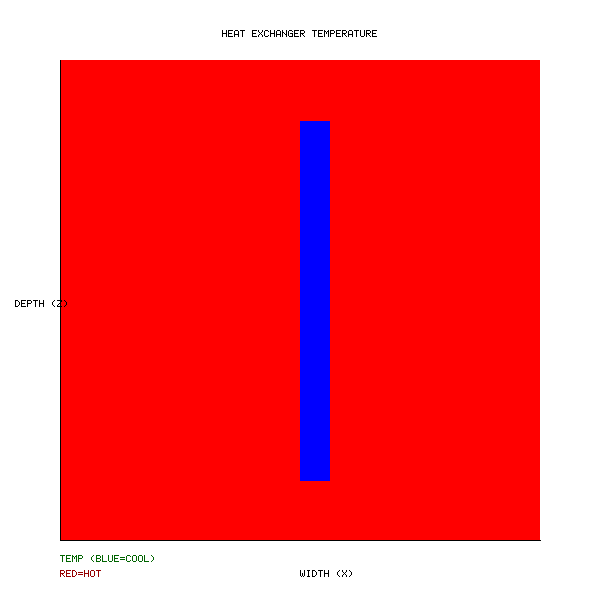
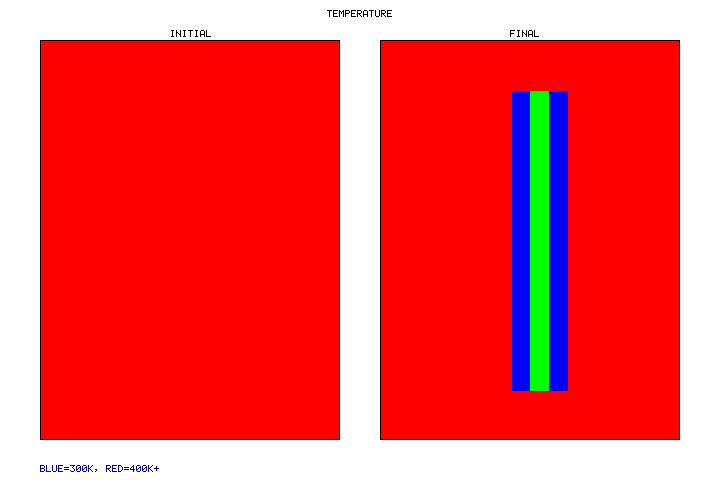
Refine deep geothermal verification with accurate coaxial setup and composite visualization
- Updated `DeepGeothermalTest.cs`:
    - Implemented a coaxial heat exchanger model with a cold annulus (300K) and hot inner core (350K) in a hot rock environment (400K).
    - Extended simulation time to 200s and increased permeability to 1e-9 m² to allow visible gas migration.
    - Updated visualization to generate composite "Initial" vs "Final" images for both pressure/gas and temperature fields.
    - Improved color mapping (Jet-like) for temperature visualization.
- Verified all tests pass and correct physical behavior is observed (gas rise, thermal gradients).

Changed region(s): [[0.03, 0.0, 0.96, 1.0], [0.69, 0.1875, 0.81, 0.8125]]

diff --git a/VerificationTests/RealCaseVerifier/DeepGeothermalTest.cs b/VerificationTests/RealCaseVerifier/DeepGeothermalTest.cs
@@ -44,8 +44,8 @@ namespace RealCaseVerifier
                 // Simulation Parameters
                 dataset.SimulationParams.EnableMultiphaseFlow = true;
                 dataset.SimulationParams.MultiphaseEOSType = "WaterCO2";
-                dataset.SimulationParams.TotalTime = 100.0; // Short simulation
-                dataset.SimulationParams.TimeStep = 0.1;
+                dataset.SimulationParams.TotalTime = 200.0; // Increased simulation time
+                dataset.SimulationParams.TimeStep = 0.5; // Larger step
                 dataset.SimulationParams.Mode = SimulationMode.TimeBased;
 
                 // Generate Mesh manually to assign domains to rows (Y-axis rows)
@@ -69,16 +69,29 @@ namespace RealCaseVerifier
                 var state = dataset.CurrentState;
 
                 // Set initial conditions
-                // High pressure (deep), High Temp
+                // High pressure (deep), Hot Rock Env
                 for(int i=0; i<res; i++)
                 for(int j=0; j<res; j++)
                 for(int k=0; k<res; k++)
                 {
                     state.Pressure[i,j,k] = 300e5f; // 300 bar
-                    state.Temperature[i,j,k] = 400.0f; // 400 K
+                    state.Temperature[i,j,k] = 400.0f; // 400 K (Hot Rock)
                     state.LiquidSaturation[i,j,k] = 1.0f;
                     state.GasSaturation[i,j,k] = 0.0f;
+                    state.Porosity[i,j,k] = 0.2f;
+                    state.Permeability[i,j,k] = 1e-9f; // Increased Permeability to verify movement
                 }
+
+                // Coaxial Heat Exchanger Setup
+                // Inner (8,8) = Hot (e.g., return flow)
+                // Outer Ring (7-9, 7-9 excluding center) = Cold (Injection)
+                // Let's fix T at these locations.
+
+                int cx = res/2;
+                int cy = res/2;
+
+                // Save Initial State
+                PhysicoChemState initialState = state.Clone();
 
                 // 2. Run Simulation
                 var solver = new PhysicoChemSolver(dataset);
@@ -88,37 +101,47 @@ namespace RealCaseVerifier
 
                 Console.WriteLine("Starting Simulation...");
 
-                for (int t = 0; t < 50; t++) // 50 steps
+                int steps = 100; // More steps
+                for (int t = 0; t < steps; t++)
                 {
-                    // Inject Gas at bottom center (res/2, 0, res/2)
-                    // Y is vertical in this setup?
-                    // Let's assume Z is vertical as gravity is typically -Z.
-
-                    if (t < 20) // Injection pulse
+                    // Inject Gas at bottom center (Pulse)
+                    if (t < 20)
                     {
-                         // Inject bubble at bottom center
-                         int cx = res/2;
-                         int cy = res/2;
                          state.GasSaturation[cx, cy, 1] = 0.8f; // Inject bubble at Z=1
                          state.LiquidSaturation[cx, cy, 1] = 0.2f;
                     }
 
-                    // Heat Exchanger: Cool the center
-                    // Coaxial probe in the middle (X=res/2, Y=res/2, Z=all)
+                    // Coaxial Heat Exchanger:
+                    // Fix temperatures along Z (vertical probe)
                     for(int z=2; z<res-2; z++)
                     {
-                        state.Temperature[res/2, res/2, z] = 350.0f; // Cooled probe
+                        // Inner (Hot)
+                        state.Temperature[cx, cy, z] = 350.0f; // Center: Warmed fluid return?
+                        // Wait, if we cool the rock, fluid heats up.
+                        // Injection is COLD.
+                        // Let's say Injection (Annulus) = 300K.
+                        // Production (Inner) = 350K.
+
+                        // Annulus (Ring)
+                        for(int dx=-1; dx<=1; dx++)
+                        for(int dy=-1; dy<=1; dy++)
+                        {
+                            if (dx==0 && dy==0) continue; // Skip center
+                            state.Temperature[cx+dx, cy+dy, z] = 300.0f; // Cold Injection
+                        }
+
+                        // Center
+                        state.Temperature[cx, cy, z] = 350.0f; // Inner Pipe
                     }
 
                     solver.RunSimulation();
                 }
 
                 // 3. Visualization
-                // Cross section at X=res/2 (Middle plane showing Y-Z or similar)
-                // Let's slice Y (Y is horizontal), showing X-Z (Vertical)
+                // Save composite images (Initial vs Final)
 
-                SaveCrossSection(state, "pressure_bubble.png", res/2, "Gas Saturation & Pressure", "Gas Sat (Green)", "Pressure (Red)");
-                SaveCrossSection(state, "exchanger_heat.png", res/2, "Heat Exchanger Temperature", "Temp (Blue=Cool)", "Red=Hot");
+                SaveCompositeCrossSection(initialState, state, "pressure_bubble.png", res/2, "Gas & Pressure", "Initial", "Final");
+                SaveCompositeCrossSection(initialState, state, "exchanger_heat.png", res/2, "Temperature", "Initial", "Final");
 
                 Console.WriteLine("Status: PASS (Images generated)");
                 return true;
@@ -131,68 +154,78 @@ namespace RealCaseVerifier
             }
         }
 
-        private static void SaveCrossSection(PhysicoChemState state, string filename, int sliceIndex, string title, string label1, string label2)
+        private static void SaveCompositeCrossSection(PhysicoChemState state1, PhysicoChemState state2, string filename, int sliceIndex, string title, string label1, string label2)
         {
-            int nx = state.Temperature.GetLength(0); // X
-            int ny = state.Temperature.GetLength(1); // Y
-            int nz = state.Temperature.GetLength(2); // Z (Vertical)
+            int nx = state1.Temperature.GetLength(0);
+            int nz = state1.Temperature.GetLength(2);
 
             // Output resolution
-            int w = 600;
-            int h = 600;
-            int margin = 60;
-            int plotW = w - 2 * margin;
-            int plotH = h - 2 * margin;
+            int panelW = 300;
+            int h = 400;
+            int margin = 40;
+            int totalW = panelW * 2 + margin * 3;
+            int totalH = h + margin * 2;
 
-            byte[] pixels = new byte[w * h * 4];
+            byte[] pixels = new byte[totalW * totalH * 4];
 
             // Fill background white
             for(int i=0; i<pixels.Length; i++) pixels[i] = 255;
 
-            // Draw Plot Area (Background gray)
-            for(int y=margin; y<h-margin; y++)
-            for(int x=margin; x<w-margin; x++)
+            // Draw Panel 1
+            DrawPanel(pixels, totalW, totalH, state1, sliceIndex, filename, margin, margin, panelW, h);
+
+            // Draw Panel 2
+            DrawPanel(pixels, totalW, totalH, state2, sliceIndex, filename, margin*2 + panelW, margin, panelW, h);
+
+            // Labels
+            SimpleBitmapFont.DrawString(pixels, totalW, totalH, title, totalW/2 - title.Length*3, 10, 0, 0, 0);
+            SimpleBitmapFont.DrawString(pixels, totalW, totalH, label1, margin + panelW/2 - 20, margin - 10, 0, 0, 0);
+            SimpleBitmapFont.DrawString(pixels, totalW, totalH, label2, margin*2 + panelW + panelW/2 - 20, margin - 10, 0, 0, 0);
+
+            // Legend
+            if (filename.Contains("pressure"))
             {
-                SetPixel(pixels, w, h, x, y, 240, 240, 240);
+               SimpleBitmapFont.DrawString(pixels, totalW, totalH, "Green=Gas, Red=Pressure", margin, totalH - 15, 0, 100, 0);
+            }
+            else
+            {
+               SimpleBitmapFont.DrawString(pixels, totalW, totalH, "Blue=300K, Red=400K+", margin, totalH - 15, 0, 0, 150);
             }
 
-            // Draw Data
-            for (int y = 0; y < plotH; y++)
-            for (int x = 0; x < plotW; x++)
-            {
-                // Map pixel to grid (X-Z plane at Y=sliceIndex)
+            using var stream = File.OpenWrite(filename);
+            var writer = new ImageWriter();
+            writer.WritePng(pixels, totalW, totalH, ColorComponents.RedGreenBlueAlpha, stream);
+        }
 
-                float gx = (float)x / plotW * nx;
-                float gz = (1.0f - (float)y / plotH) * nz; // Flip Y for visualization
+        private static void DrawPanel(byte[] pixels, int totalW, int totalH, PhysicoChemState state, int sliceIndex, string type, int xOff, int yOff, int w, int h)
+        {
+            int nx = state.Temperature.GetLength(0);
+            int nz = state.Temperature.GetLength(2);
+
+            for (int y = 0; y < h; y++)
+            for (int x = 0; x < w; x++)
+            {
+                float gx = (float)x / w * nx;
+                float gz = (1.0f - (float)y / h) * nz;
 
                 int ix = Math.Clamp((int)gx, 0, nx - 1);
                 int iz = Math.Clamp((int)gz, 0, nz - 1);
                 int iy = sliceIndex;
 
-                // Visualize
-                float p = state.Pressure[ix, iy, iz];
-                float s_g = state.GasSaturation[ix, iy, iz];
-                float temp = state.Temperature[ix, iy, iz];
-
                 byte r=0, g=0, b=0;
 
-                if (filename.Contains("pressure"))
+                if (type.Contains("pressure"))
                 {
-                    // Pressure (Red background), Gas (Green overlay)
-                    // Normalize Pressure
+                    float p = state.Pressure[ix, iy, iz];
+                    float s_g = state.GasSaturation[ix, iy, iz];
+
                     float pNorm = (p - 1e5f) / 5e5f;
-                    pNorm = Math.Clamp(pNorm, 0.0f, 1.0f);
+                    r = (byte)(50 + Math.Clamp(pNorm, 0, 1) * 150);
 
-                    r = (byte)(50 + pNorm * 150);
-
-                    // Gas overlay
-                    float gNorm = Math.Clamp(s_g, 0.0f, 1.0f);
-                    if (gNorm > 0.05f)
+                    if (s_g > 0.01f)
                     {
-                        g = (byte)(gNorm * 255);
-                        // Blend with pressure background
+                        g = (byte)(Math.Clamp(s_g * 255 * 2, 0, 255));
                         r = (byte)(r * 0.5f);
-                        b = 50;
                     }
                     else
                     {
@@ -202,42 +235,47 @@ namespace RealCaseVerifier
                 }
                 else
                 {
-                    // Temperature (Heat Map: Blue to Red)
-                    // Range 350K to 400K
-                    float tNorm = Math.Clamp((temp - 350.0f) / 50.0f, 0.0f, 1.0f);
-                    r = (byte)(tNorm * 255);
-                    b = (byte)((1.0f - tNorm) * 255);
-                    g = 0;
+                    float temp = state.Temperature[ix, iy, iz];
+                    // Range 300K (Cold) to 400K (Hot)
+                    float tNorm = Math.Clamp((temp - 300.0f) / 100.0f, 0.0f, 1.0f);
+
+                    // Jet-like color map (Blue -> Green -> Red)
+                    if (tNorm < 0.5f)
+                    {
+                        // Blue to Green
+                        float local = tNorm * 2.0f;
+                        b = (byte)((1.0f - local) * 255);
+                        g = (byte)(local * 255);
+                        r = 0;
+                    }
+                    else
+                    {
+                        // Green to Red
+                        float local = (tNorm - 0.5f) * 2.0f;
+                        b = 0;
+                        g = (byte)((1.0f - local) * 255);
+                        r = (byte)(local * 255);
+                    }
                 }
 
-                // Pixel scaling (nearest neighbor for sharp grid look)
-                int px = x + margin;
-                int py = y + margin;
-
-                int idx = (py * w + px) * 4;
+                int px = x + xOff;
+                int py = y + yOff;
+                int idx = (py * totalW + px) * 4;
                 pixels[idx] = r;
                 pixels[idx+1] = g;
                 pixels[idx+2] = b;
                 pixels[idx+3] = 255;
             }
 
-            // Draw Axes (Black lines)
-            DrawLine(pixels, w, h, margin, margin, margin, h - margin, 0, 0, 0); // Y axis
-            DrawLine(pixels, w, h, margin, h - margin, w - margin, h - margin, 0, 0, 0); // X axis
+            // Border
+            DrawRect(pixels, totalW, totalH, xOff, yOff, w, h, 0, 0, 0);
+        }
 
-            // Draw Text using SimpleBitmapFont
-            SimpleBitmapFont.DrawString(pixels, w, h, title, w/2 - title.Length*3, margin/2, 0, 0, 0);
-            SimpleBitmapFont.DrawString(pixels, w, h, "Depth (Z)", margin/4, h/2, 0, 0, 0); // Sideways text is hard, just label
-            SimpleBitmapFont.DrawString(pixels, w, h, "Width (X)", w/2, h - margin/2, 0, 0, 0);
-
-            // Legend
-            SimpleBitmapFont.DrawString(pixels, w, h, label1, margin, h - margin + 15, 0, 100, 0);
-            SimpleBitmapFont.DrawString(pixels, w, h, label2, margin, h - margin + 30, 150, 0, 0);
-
-            // Save
-            using var stream = File.OpenWrite(filename);
-            var writer = new ImageWriter();
-            writer.WritePng(pixels, w, h, ColorComponents.RedGreenBlueAlpha, stream);
+        private static void DrawRect(byte[] pixels, int w, int h, int x, int y, int rw, int rh, byte r, byte g, byte b)
+        {
+            // Simple outline
+            for(int i=0; i<rw; i++) { SetPixel(pixels, w, h, x+i, y, r,g,b); SetPixel(pixels, w, h, x+i, y+rh-1, r,g,b); }
+            for(int i=0; i<rh; i++) { SetPixel(pixels, w, h, x, y+i, r,g,b); SetPixel(pixels, w, h, x+rw-1, y+i, r,g,b); }
         }
 
         private static void SetPixel(byte[] pixels, int w, int h, int x, int y, byte r, byte g, byte b)
@@ -248,22 +286,6 @@ namespace RealCaseVerifier
             pixels[idx+1] = g;
             pixels[idx+2] = b;
             pixels[idx+3] = 255;
-        }
-
-        private static void DrawLine(byte[] pixels, int w, int h, int x0, int y0, int x1, int y1, byte r, byte g, byte b)
-        {
-            int dx = Math.Abs(x1 - x0), sx = x0 < x1 ? 1 : -1;
-            int dy = -Math.Abs(y1 - y0), sy = y0 < y1 ? 1 : -1;
-            int err = dx + dy, e2;
-
-            while (true)
-            {
-                SetPixel(pixels, w, h, x0, y0, r, g, b);
-                if (x0 == x1 && y0 == y1) break;
-                e2 = 2 * err;
-                if (e2 >= dy) { err += dy; x0 += sx; }
-                if (e2 <= dx) { err += dx; y0 += sy; }
-            }
         }
     }
 }
